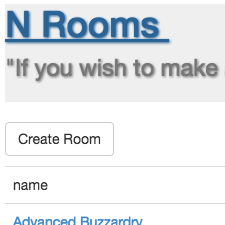
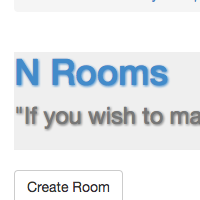
Fixed sites view.

diff --git a/content/sites.html b/content/sites.html
@@ -2,31 +2,28 @@
 title: sites
 ---
 
-<h2><a href="https://reddit-clone456.herokuapp.com/">N Rooms</a></h2>
-
-<p>A social media platform with reddit-like features.</p>
-
+<div class="site-box">
 <a href="https://reddit-clone456.herokuapp.com/">
-  <img src="/img/nrooms_ss.png" height="200px" width="200px"><img>
+  <img src="/img/nrooms_ss.png" height="200px" width="200px" alt="N Rooms"><img>
 </a>
 
+<p>A social media platform with reddit-like features.</p>
 <p>(Ruby on Rails, heroku)</p>
 
 <ul>
   <li>front-end development</li>
   <li>back-end development</li>
 </ul>
+</div>
 
 <div class="horizontal-rule"></div>
 
-<h2><a href="https://bubble-a6b08.firebaseapp.com/#/home">Pearl<a/></h2>
-
-<p>A web application that connects users with local businesses.</p>
-
-<a href="https://reddit-clone456.herokuapp.com/">
-  <img src="/img/pearl_ss.png" height="200px" width="200px"><img>
+<div class="site-box">
+<a href="https://bubble-a6b08.firebaseapp.com/#/home">
+  <img src="/img/pearl_ss.png" height="200px" width="200px" alt="Pearl"><img>
 </a>
 
+<p>A web application that connects users with local businesses.</p>
 <p>(Ruby on Rails, postgresql, redis, heroku, Firebase)</p>
 
 <ul>
@@ -34,3 +31,4 @@ title: sites
   <li>Sidekiq workers for RESTful calls to Locu, Yelp, and Google Places APIs</li>
   <li>Basic authentication solution</li>
 </ul>
+</div>

diff --git a/content/stylesheet.css b/content/stylesheet.css
@@ -147,10 +147,14 @@ iframe {
 }
 
 img {
-    border: 3px outset #eadfb0;
     box-shadow: 8px 8px 15px black;
+    border-radius: 100%;
 }
 
 .video-box {
+    margin: 7%;
+}
+
+.site-box {
     margin: 7%;
 }
